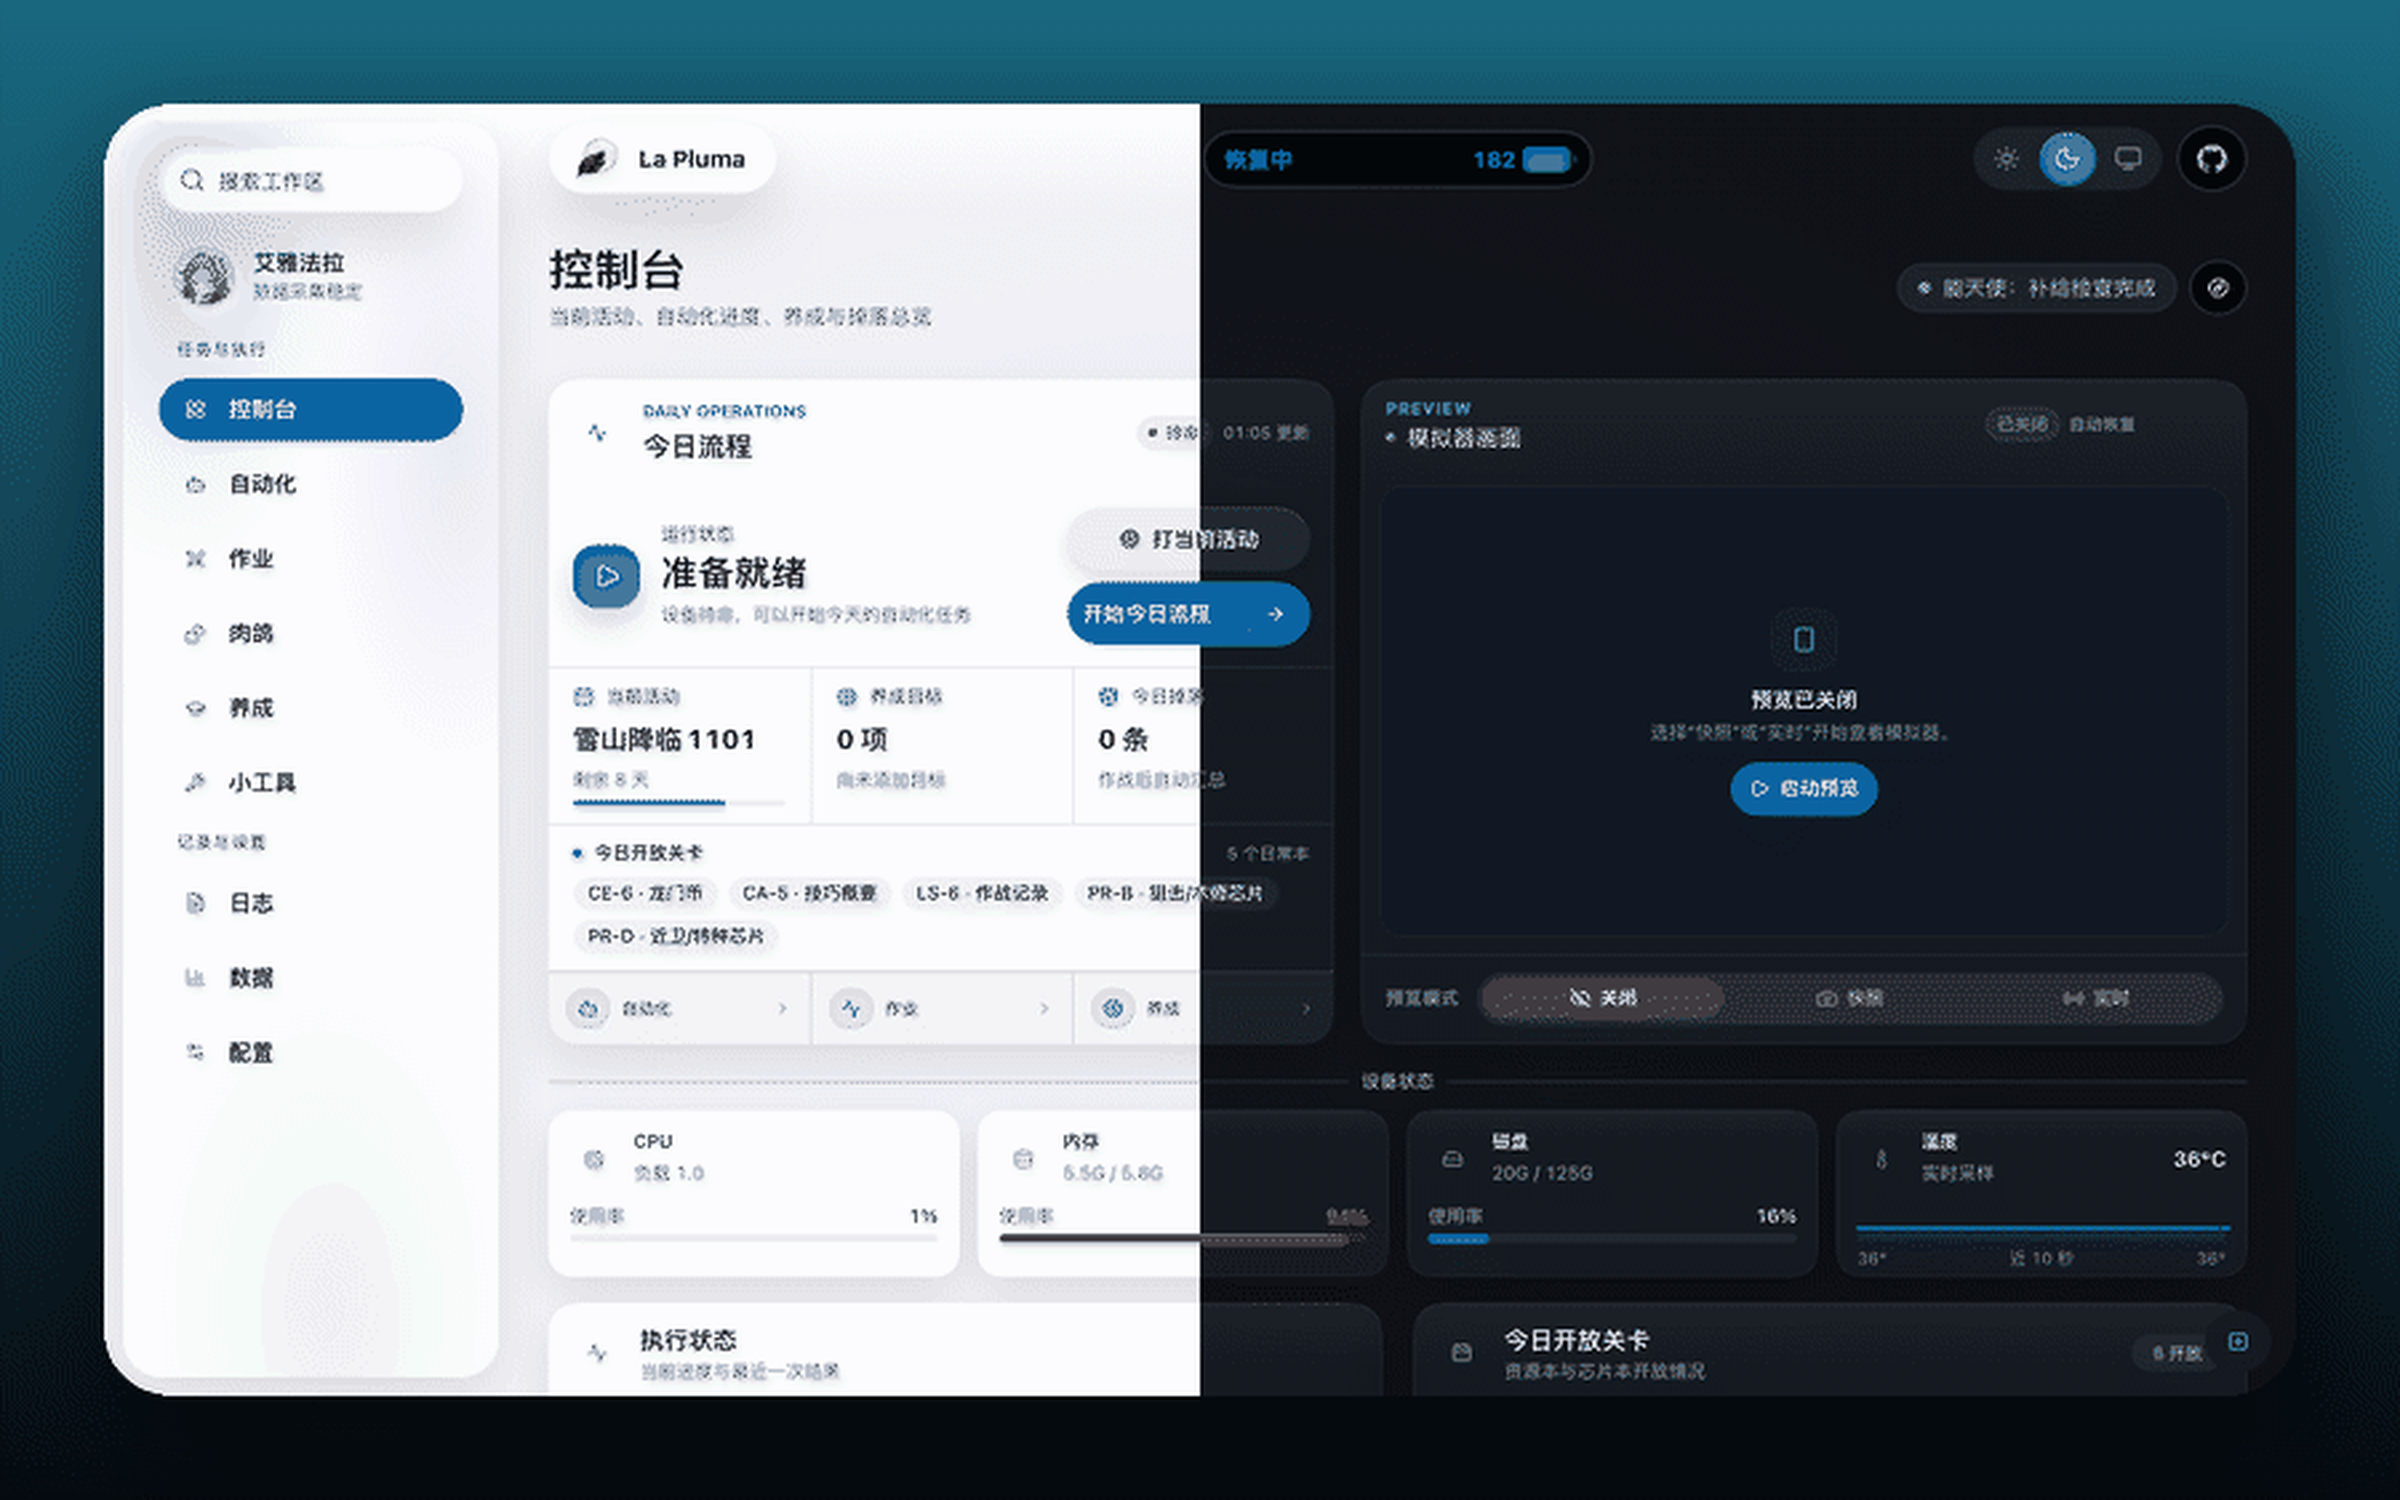
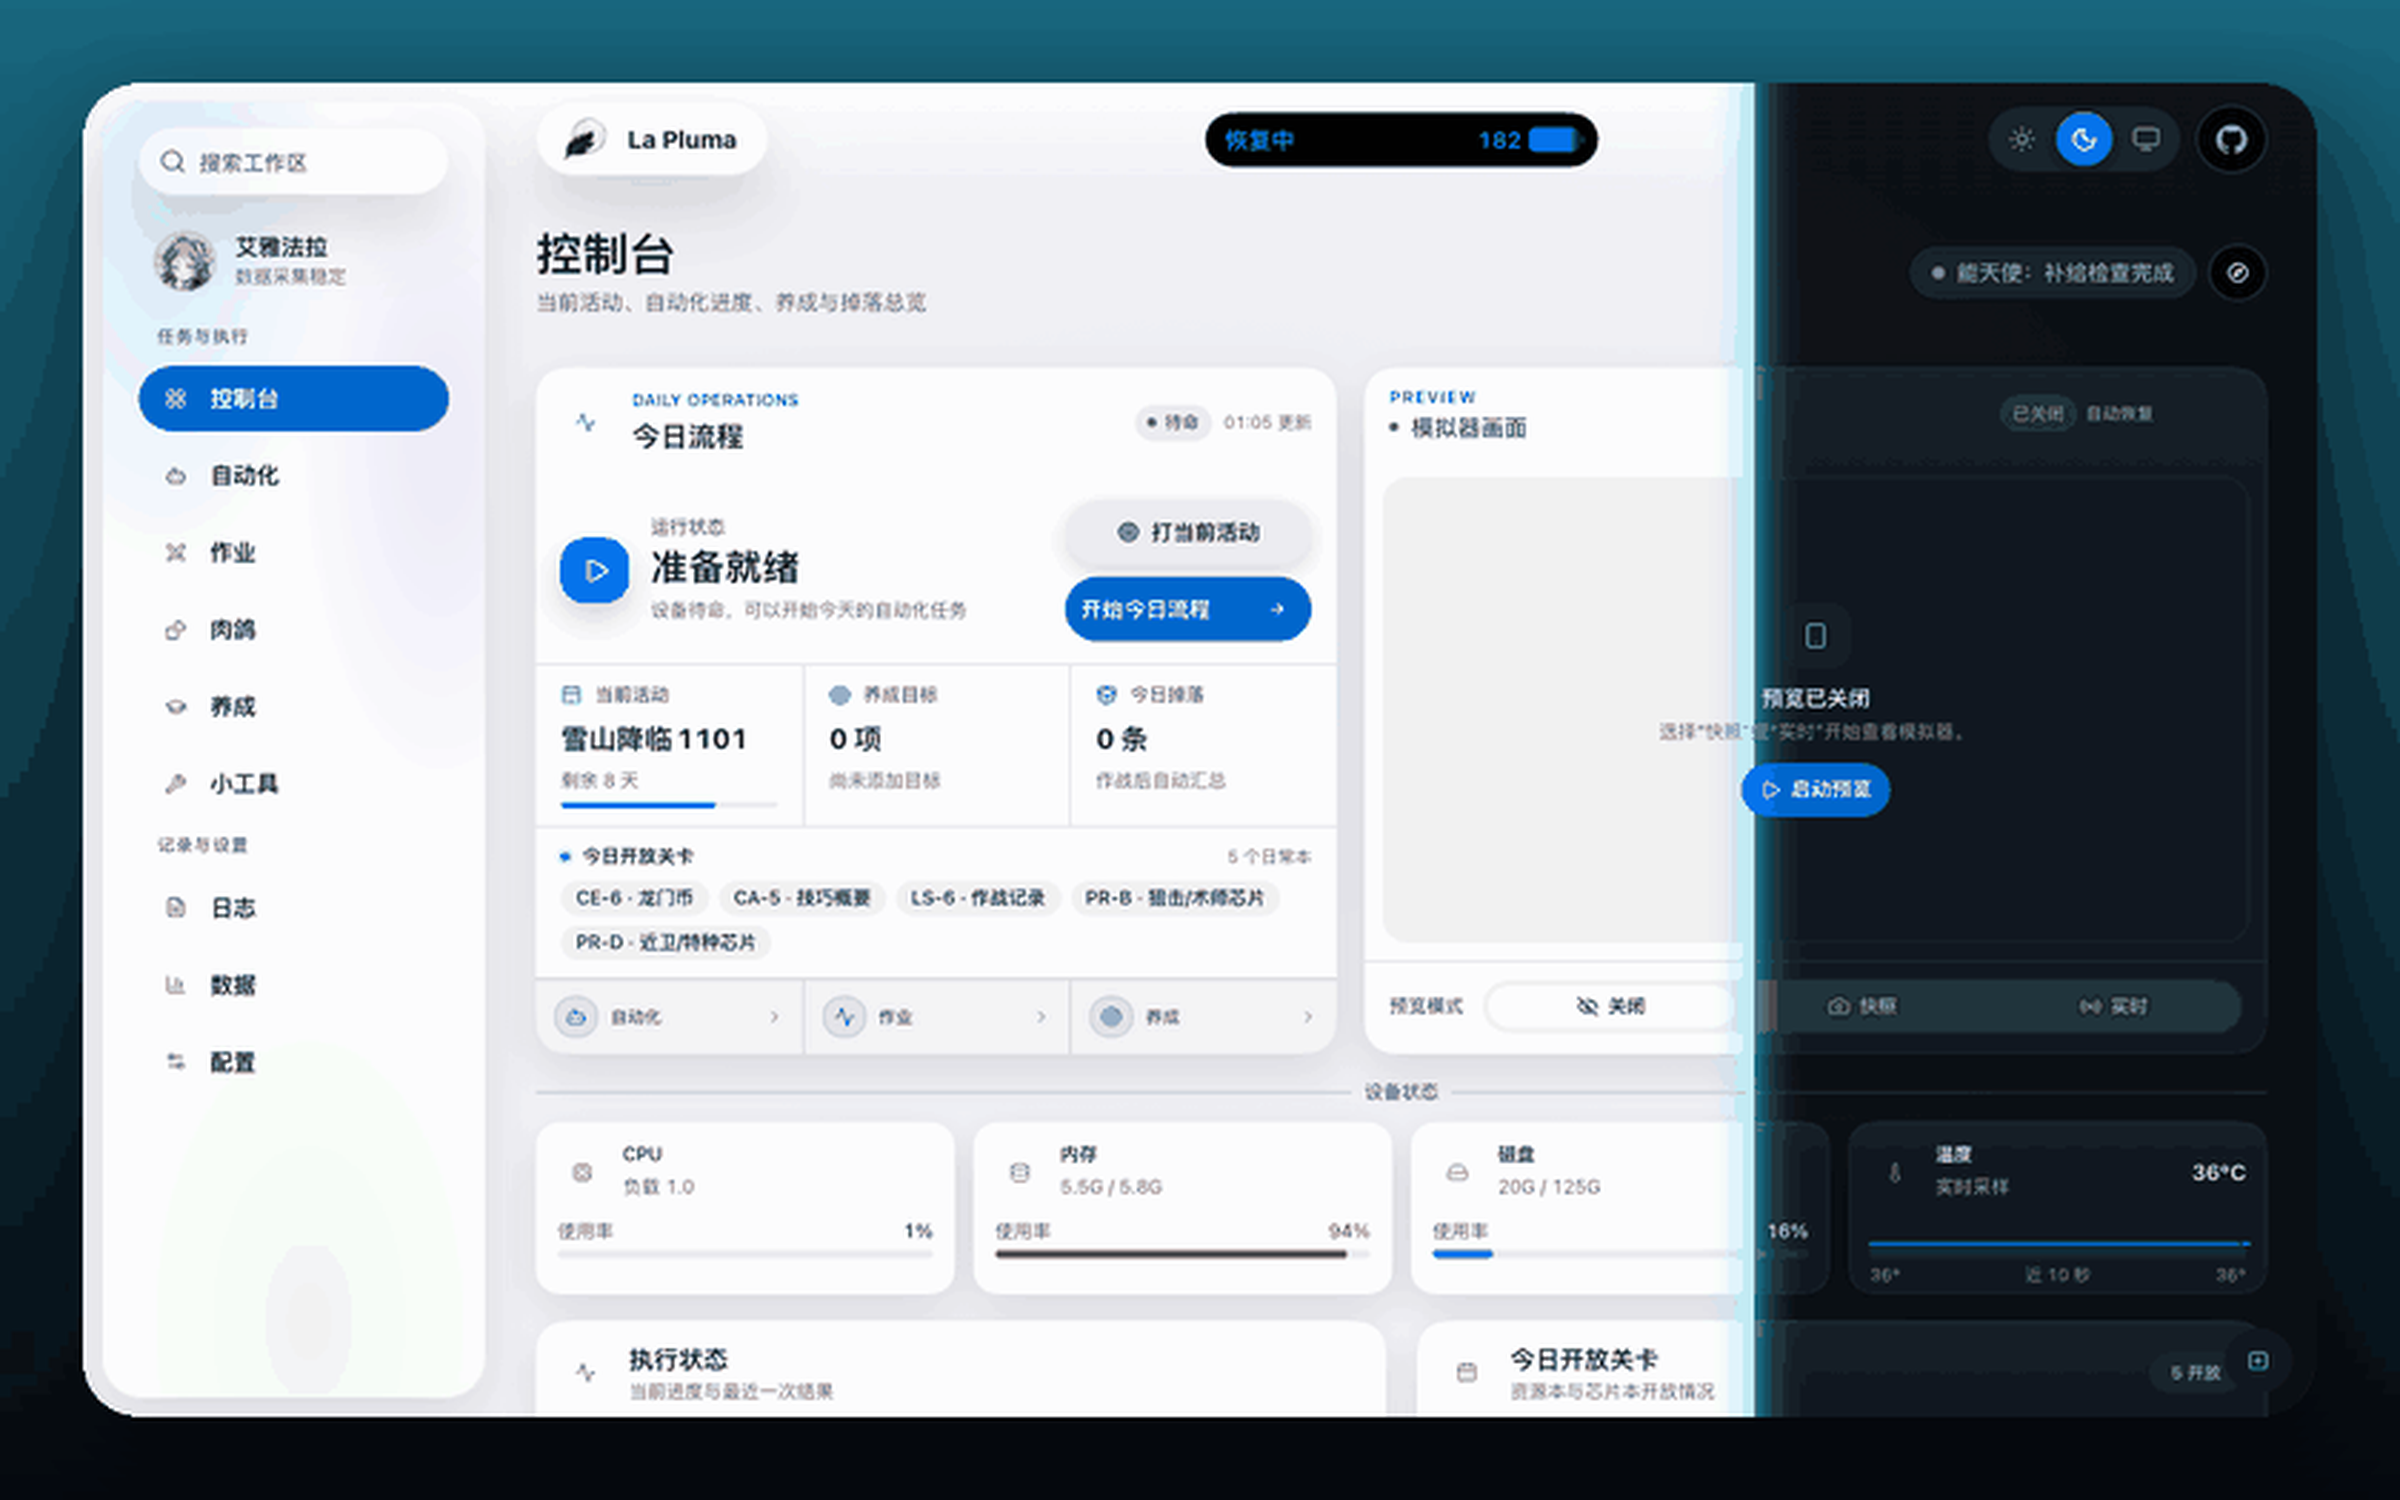
docs(readme): give the hero wipe real motion and drop the phone shot
The first cut moved the edge at a constant rate, which read as a mechanical
slide. It now follows a cubic-bezier curve — it leaves with weight, crosses
fast, and glides to a stop — with a cyan highlight that rides the edge and
widens with speed, clipped to the device so it does not wash the backdrop.
The device also breathes a fraction of a percent through the sweep.

GIF drops to 1.3 MB at 840x525 after moving to a 128-colour palette without
dithering; text stays legible.

Removes the phone screenshot and its README reference.

diff --git a/README.zh.md b/README.zh.md
@@ -106,12 +106,6 @@ La Pluma 是一个自托管的《明日方舟》自动化 Web 控制台。它把
   <em>桌面端自动化工作台</em>
 </p>
 
-<p align="center">
-  <img src="screenshots/automation-mobile-theme-split.png" alt="手机端自动化工作台，亮色与暗色主题并排展示" width="36%" />
-  <br />
-  <em>同一工作台在手机上的布局</em>
-</p>
-
 ## 快速开始
 
 ### 环境要求

diff --git a/README.md b/README.md
@@ -107,12 +107,6 @@ The project is named after La Pluma, the five-star Guard in Arknights.
   <em>Automation workspace on desktop</em>
 </p>
 
-<p align="center">
-  <img src="screenshots/automation-mobile-theme-split.png" alt="Automation workspace on a phone with light and dark themes side by side" width="36%" />
-  <br />
-  <em>The same workspace on a phone</em>
-</p>
-
 ## Quick start
 
 ### Requirements
